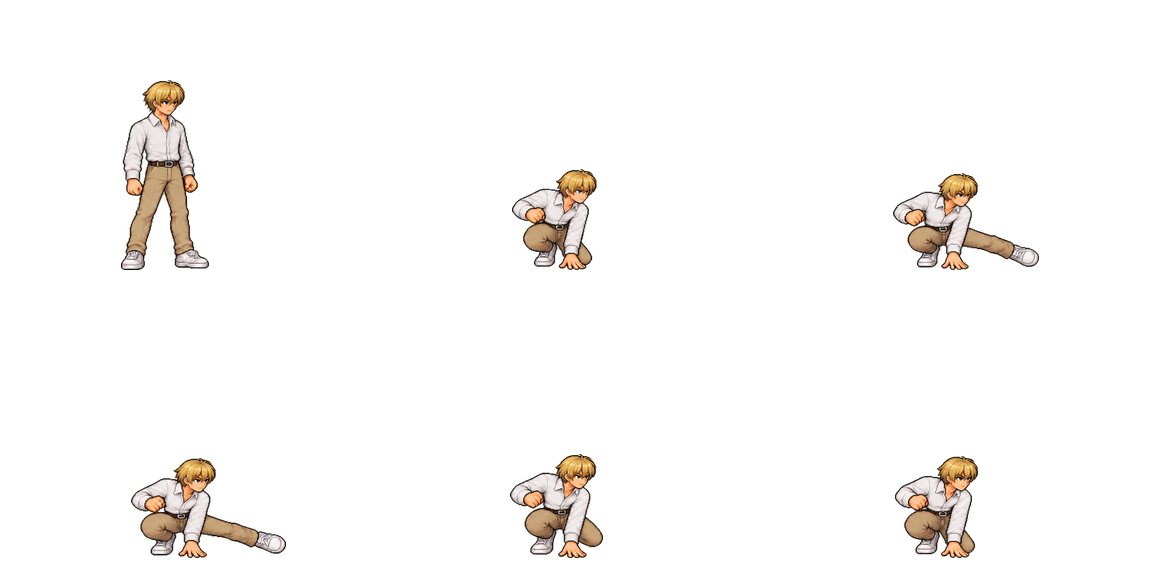
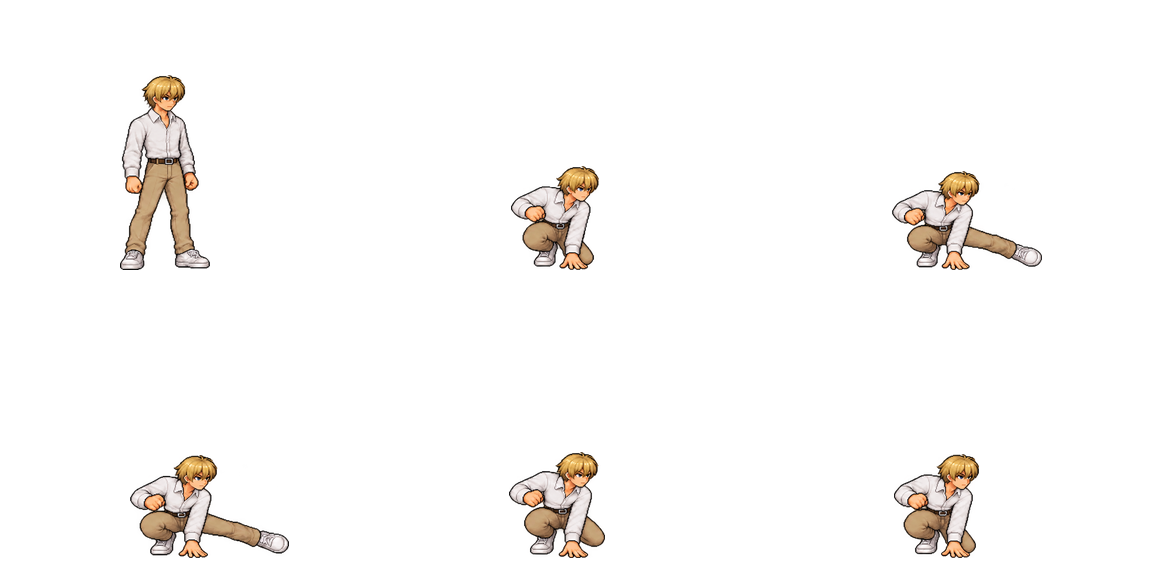
align Seiya sweep size with approved standing proportions

diff --git a/tools/pack_seiya_slim_sweep.py b/tools/pack_seiya_slim_sweep.py
@@ -10,7 +10,10 @@ CUTS=[(0,0,512,570),(512,0,1024,570),(1024,0,1536,570),
       (0,570,570,1000),(570,570,1050,1000),(1050,570,1536,1000)]
 ROOTS=[(295,548),(726,540),(1132,540),(188,969),(742,969),(1239,969)]
 STANDING_HEIGHT=501
-SCALE=190.0/STANDING_HEIGHT
+# Approved idle_prebattle standing occupies 195px; combat idle is only 190px.
+# Calibrate the entire authored sequence to the approved standing, not combat idle.
+TARGET_STANDING_HEIGHT=195
+SCALE=TARGET_STANDING_HEIGHT/STANDING_HEIGHT
 CLIPS={
  "crouch_kick":{"frames":[1,2,3,4,5,1],"fps":10,"loop":False},
  "crouch_kick_sweep":{"frames":[1,2,3,4,5,1],"fps":10,"loop":False},
@@ -43,6 +46,6 @@ def main():
  text+='[resource]\nscript = ExtResource("1")\ntexture = ExtResource("2")\ncell_size = Vector2i(384,288)\ncolumns = 3\nhead_scale_override = 1.0\n'
  text+='clips = '+json.dumps(CLIPS)+'\n'
  (DEST/'motion_atlas.tres').write_text(text,encoding='utf-8')
- (DEST/'packing_manifest.json').write_text(json.dumps({'formal_reference':'art_sources/seiya_slim_v3/formal_standing.png','body_balance_reference':'art_sources/seiya_slim_v3/akky_balance_reference.png','source':str(SOURCE.relative_to(ROOT)),'standing_source_height':STANDING_HEIGHT,'target_source_height':190,'frames':records},indent=2),encoding='utf-8')
+ (DEST/'packing_manifest.json').write_text(json.dumps({'formal_reference':'art_sources/seiya_slim_v3/formal_standing.png','body_balance_reference':'art_sources/seiya_slim_v3/akky_balance_reference.png','source':str(SOURCE.relative_to(ROOT)),'standing_source_height':STANDING_HEIGHT,'target_source_height':TARGET_STANDING_HEIGHT,'frames':records},indent=2),encoding='utf-8')
  print('SEIYA_SLIM_SWEEP_PACK_OK frames=6 one_scale=',SCALE)
 if __name__=='__main__':main()

diff --git a/docs/design/seiya_slim_motion_standard.md b/docs/design/seiya_slim_motion_standard.md
@@ -27,3 +27,5 @@
 HitBoxを60×28、中心を前方62pxへ変更。発生・硬直・威力・ダウン属性は維持。
 実描画でアッキーとの体格を比較。自動実戦テストでは左右両向きの地上命中・ダウンと、空中相手への空振りを確認。
 他の攻撃・ガード・投げ・被弾モーションの全面修正は継続対象であり、完了扱いにしない。
+
+追加確認: 脚の長さと体格比率は維持。しゃがみキックの全体倍率のみ、旧190px基準から正式立ち姿195px基準へ約2.6%拡大。キャラクター身長設定やSpriteの倍率は変更しない。
